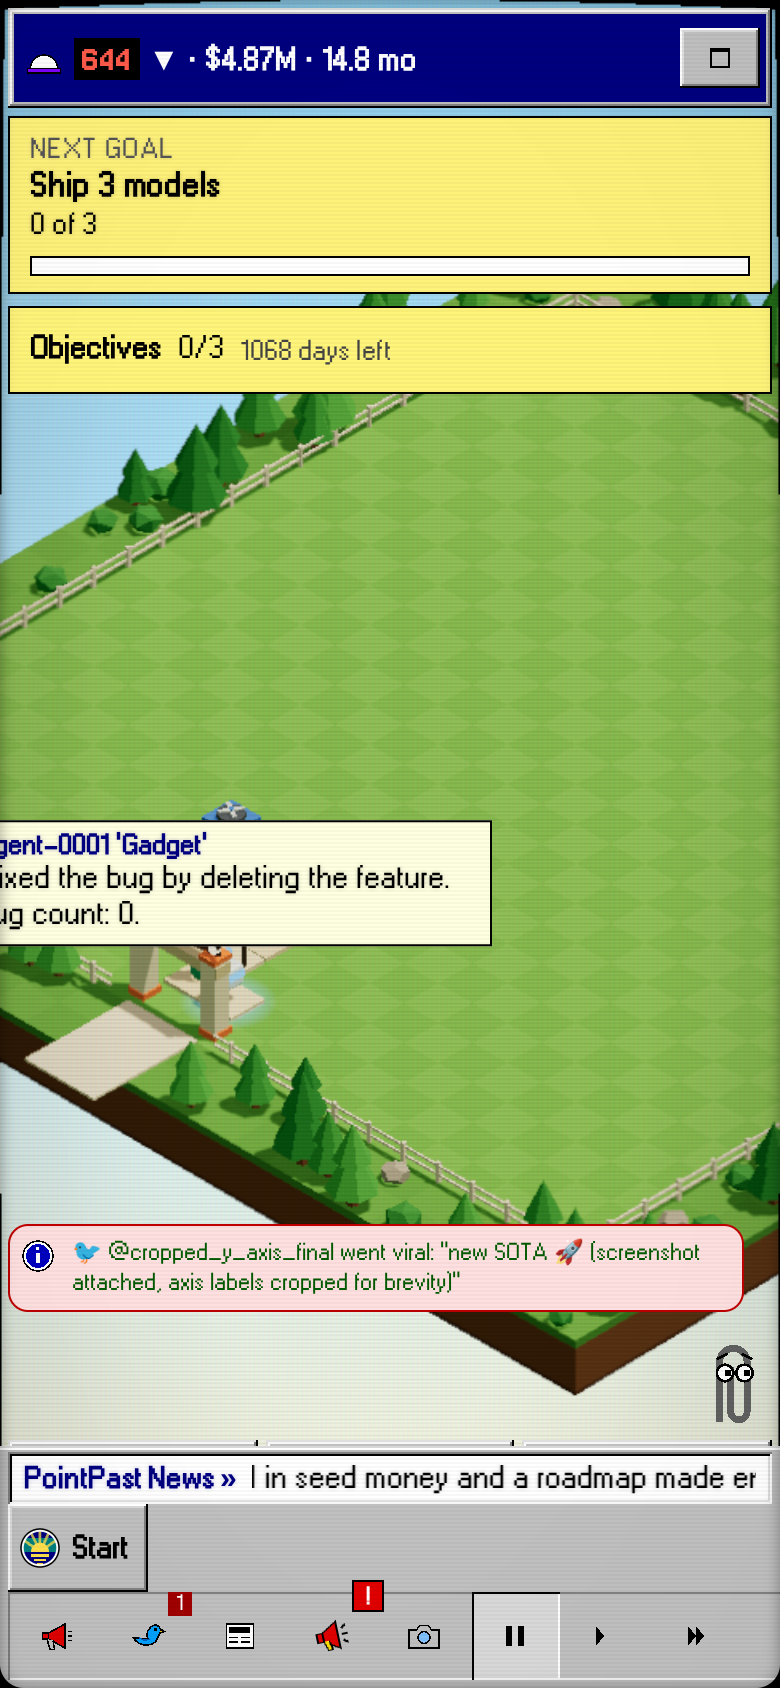
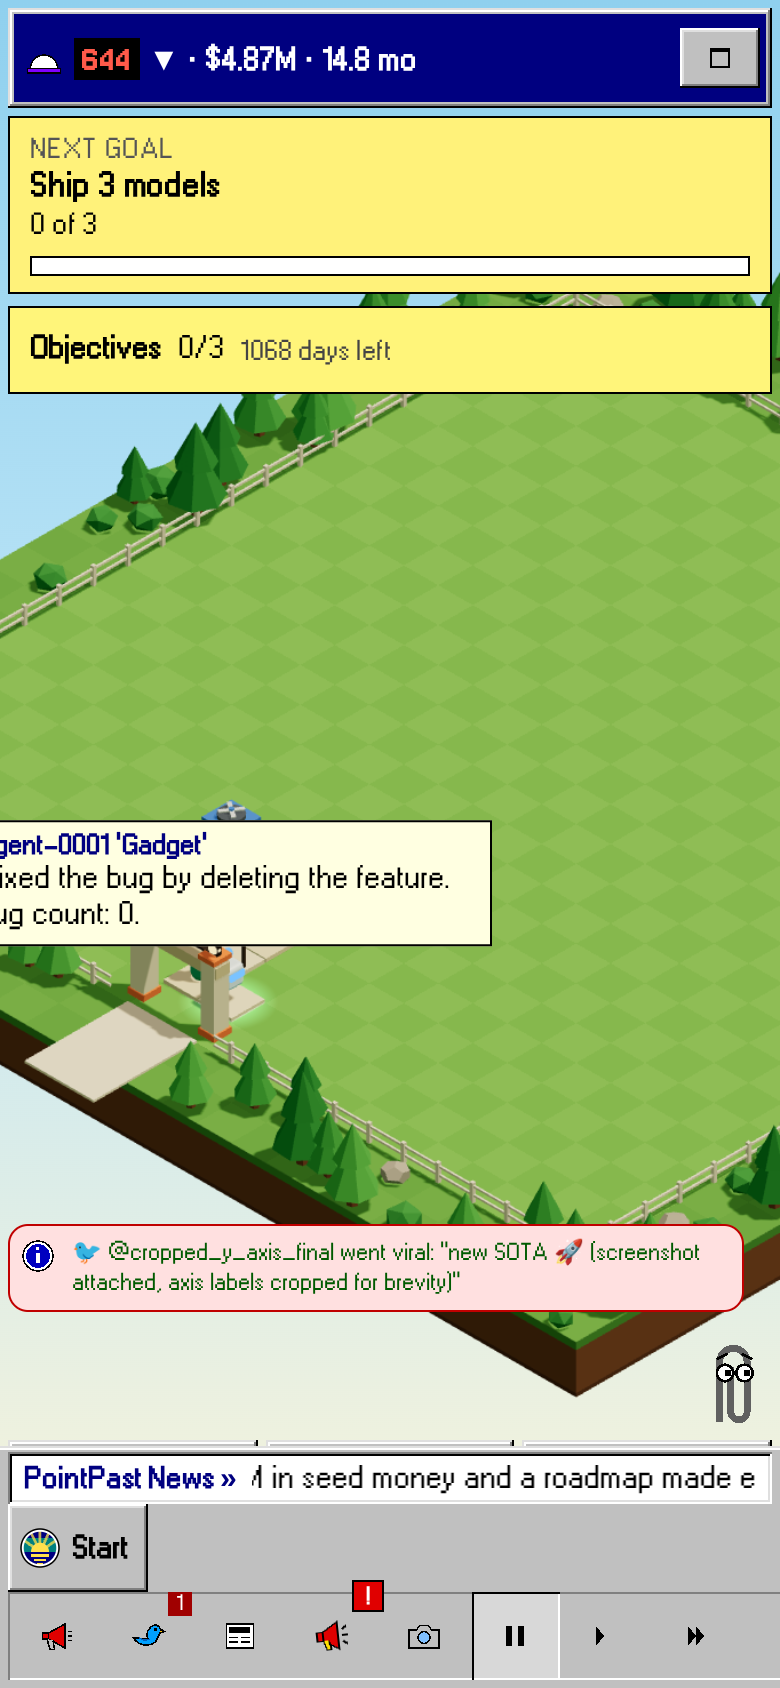
FLT-70: the in-game CRT is off for every skin; the shader stays on the box PC
Jem's call: land FLT-73's shader code with the in-game tube hidden and off,
keeping it only on the box's beige PC. GAME_CRT = false in
src/render/crt/state.ts gates it: the look is always off, ?crt=/?crttier= are
ignored, no pick is read or saved, and the HUD passes no vm.skins.crt, so
Display Properties ▸ Settings shows nothing. Frontier 95's "crt": "subtle"
stays in skin.json, inert. The Kiosk runs CRTPipeline itself and is untouched.
The FLT-88 spike flips the one constant. Drops the 11 FLT-73 shots scenes;
off.test.ts pins the switch, the box's shader and the scenes. Taskbar shots
recaptured against main @ cb75632.

diff --git a/src/ui/juice/crt.ts b/src/ui/juice/crt.ts
@@ -1,9 +1,10 @@
 // The CRT setting (FLT-73): the player's pick (Display Properties → Settings), the skin's default, `?crt=` for a
 // visit, and what the canvas can afford. Everything lands in `crtAtom`, which the scene (CrtFX) and the CSS tube read.
+// While GAME_CRT is off (FLT-70) none of them count: the look is always off, `?crt=` is ignored and nothing is saved.
 import { registry } from "../../app/game";
 import { isCrtMode, type CrtMode, type CrtTier, CRT_TIERS } from "../../render/crt/looks";
 import { CrtGovernor } from "../../render/crt/governor";
-import { crtAtom, crtGovernor } from "../../render/crt/state";
+import { GAME_CRT, crtAtom, crtGovernor } from "../../render/crt/state";
 import { photoAtom } from "../../render/fx/photoState";
 import { loadedSkinAtom } from "../hud/state";
 
@@ -20,8 +21,8 @@ function recall(): CrtMode | null {
 
 const params = typeof window === "undefined" ? new URLSearchParams() : new URLSearchParams(window.location.search);
 /** `?crt=off|subtle|full` pins the look for this visit (never saved), and `?crttier=multi|lite|flat` the canvas. Both switch the governor off. */
-const pinnedMode = isCrtMode(params.get("crt")) ? (params.get("crt") as CrtMode) : null;
-const pinnedTier = (CRT_TIERS as readonly string[]).includes(params.get("crttier") ?? "") ? (params.get("crttier") as CrtTier) : null;
+const pinnedMode = GAME_CRT && isCrtMode(params.get("crt")) ? (params.get("crt") as CrtMode) : null;
+const pinnedTier = GAME_CRT && (CRT_TIERS as readonly string[]).includes(params.get("crttier") ?? "") ? (params.get("crttier") as CrtTier) : null;
 
 /** A phone starts on the lite shader: a small touch screen, where the multi-pass pipeline costs the most per useful pixel. */
 function startTier(): CrtTier {
@@ -31,12 +32,12 @@ function startTier(): CrtTier {
   return touch && Math.min(window.innerWidth, window.innerHeight) < 700 ? "lite" : "multi";
 }
 
-let chosen: CrtMode | null = recall();
+let chosen: CrtMode | null = GAME_CRT ? recall() : null;
 const pinned = pinnedMode !== null || pinnedTier !== null;
 
 function recompute(patch: { tier?: CrtTier; reduced?: boolean } = {}) {
   const skinDefault = registry.get(loadedSkinAtom).crt ?? "off";
-  const mode: CrtMode = registry.get(photoAtom) ? "off" : (pinnedMode ?? chosen ?? skinDefault);
+  const mode: CrtMode = !GAME_CRT || registry.get(photoAtom) ? "off" : (pinnedMode ?? chosen ?? skinDefault);
   const prev = registry.get(crtAtom);
   const next = { ...prev, mode, choice: chosen, pinned, ...patch };
   // The first time the tube comes on, a governor starts watching the frame rate (the canvas feeds it; see CrtLayer).
@@ -46,6 +47,7 @@ function recompute(patch: { tier?: CrtTier; reduced?: boolean } = {}) {
 
 /** The player picked a look: remember it, and give the canvas a fresh chance at its best tier. */
 export function setCrtMode(mode: CrtMode) {
+  if (!GAME_CRT) return;
   chosen = mode;
   try {
     localStorage.setItem(KEY, mode);

diff --git a/src/render/crt/off.test.ts b/src/render/crt/off.test.ts
@@ -1,0 +1,37 @@
+// FLT-70: Jem kept the CRT shader for the box's beige PC and turned the tube over the game off for every skin. This
+// pins the switch off, keeps the box on the shader, and keeps screenshots from asking for a tube the game no longer has.
+// The FLT-88 spike flips GAME_CRT on its own branch and updates this test with it.
+import { describe, expect, it } from "vitest";
+import { GAME_CRT } from "./state";
+
+const src = import.meta.glob<string>(["/src/intro/stage/Kiosk.tsx", "/src/ui/juice/crt.ts", "/src/ui/hud/useHudVM.ts", "/scripts/shots.scenes.json"], {
+  query: "?raw",
+  import: "default",
+  eager: true,
+});
+
+describe("the in-game picture tube is off (FLT-70)", () => {
+  it("GAME_CRT is off", () => {
+    expect(GAME_CRT).toBe(false);
+  });
+
+  it("the switch gates the look, ?crt=, the saved pick and the Display Properties setting", () => {
+    const crt = src["/src/ui/juice/crt.ts"]!;
+    expect(crt).toMatch(/const mode: CrtMode = !GAME_CRT \|\|/);
+    expect(crt).toMatch(/const pinnedMode = GAME_CRT &&/);
+    expect(crt).toMatch(/GAME_CRT \? recall\(\) : null/);
+    expect(crt).toMatch(/setCrtMode\(mode: CrtMode\) {\n\s*if \(!GAME_CRT\) return;/);
+    expect(src["/src/ui/hud/useHudVM.ts"]).toMatch(/\.\.\.\(GAME_CRT \? { crt:/);
+  });
+
+  it("the box's beige PC keeps the shader", () => {
+    expect(src["/src/intro/stage/Kiosk.tsx"]).toMatch(/new CRTPipeline\(/);
+    expect(src["/src/intro/stage/Kiosk.tsx"]).not.toMatch(/GAME_CRT|crtAtom/);
+  });
+
+  it("no screenshot scene asks for a tube", () => {
+    const { scenes } = JSON.parse(src["/scripts/shots.scenes.json"]!) as { scenes: Record<string, { query?: Record<string, unknown> }> };
+    const tubed = Object.entries(scenes).filter(([id, s]) => id.startsWith("crt-") || (s.query && ("crt" in s.query || "crttier" in s.query)));
+    expect(tubed.map(([id]) => id)).toEqual([]);
+  });
+});

diff --git a/src/ui/hud/useHudVM.ts b/src/ui/hud/useHudVM.ts
@@ -7,7 +7,7 @@ import { atoms, debugParams, probeHud, registry, saveDesk } from "../../app/game
 import type { Snapshot } from "../../app/hud";
 import { audioReadyAtom, mixerAtom, mixerOpenAtom } from "../../audio/state";
 import { roomAtom } from "../../newsroom/state";
-import { crtAtom } from "../../render/crt/state";
+import { GAME_CRT, crtAtom } from "../../render/crt/state";
 import { photoAtom } from "../../render/fx/photoState";
 import { beatAtom } from "../../render/fx/beatState";
 import { skinList } from "../../skins/registry";
@@ -270,7 +270,8 @@ export function useHudVM({ snap, speed, tool, toasts, news, follow, highlight, s
           list,
           rejected: skinUi.refused,
           offer: skinUi.offer,
-          crt: { mode: crt.mode, choice: crt.choice, tier: crt.tier, reduced: crt.reduced },
+          // No `crt` while the in-game tube is off (FLT-70): the skins show no picture-tube setting.
+          ...(GAME_CRT ? { crt: { mode: crt.mode, choice: crt.choice, tier: crt.tier, reduced: crt.reduced } } : {}),
         },
         mods,
         drama,

diff --git a/src/render/crt/state.ts b/src/render/crt/state.ts
@@ -4,6 +4,14 @@ import { Atom } from "effect/unstable/reactivity";
 import type { CrtGovernor } from "./governor";
 import { unwarp, type CrtMode, type CrtTier } from "./looks";
 
+/**
+ * The in-game picture tube's one switch (FLT-70): off. Jem kept the shader for the box's beige PC (the intro's Kiosk
+ * runs CRTPipeline itself and never reads this) and turned the tube over the game off for every skin: no Display
+ * Properties setting, no `?crt=`, no skin default (Frontier 95's `"crt": "subtle"` lies dormant). Everything below
+ * stays wired for the FLT-88 spike, which turns it back on here.
+ */
+export const GAME_CRT = false as boolean;
+
 export interface CrtState {
   /** The look on screen right now: the player's pick, else the skin's default; off while photo mode is up. */
   mode: CrtMode;

diff --git a/docs/SKINS.md b/docs/SKINS.md
@@ -96,7 +96,7 @@ Only the **active** skin's CSS, slots and fonts are loaded (Vite splits them int
 | `version` | `"1.2.3"` | Semver. |
 | `preview` | `"assets/preview.<ext>"` | Picker thumbnail. |
 | `unlisted` | `true` (optional) | Keeps the skin out of the player's picker until it passes a taste review. It still loads with `?skin=<id>`. Unhiding is deleting the line. |
-| `crt` | `"off"`, `"subtle"` or `"full"` (optional) | FLT-73: the CRT tube the skin is seen through until the player picks one in Display Properties → Settings. Frontier 95 says `"subtle"`; absent means off. A mod skin inherits its parent's. |
+| `crt` | `"off"`, `"subtle"` or `"full"` (optional) | FLT-73: the CRT tube the skin is seen through until the player picks one in Display Properties → Settings. Frontier 95 says `"subtle"`; absent means off. A mod skin inherits its parent's. **Inert for now:** the in-game tube is off for every skin (FLT-70, `GAME_CRT` in `src/render/crt/state.ts`). |
 | `tokens` | `{ "color.panel": "#fff", ... }` | See [Tokens](#tokens). All **required** tokens must be present; the rest fall back to the base. Names must be known tokens, or your own under the `x.` prefix (`"x.sparkle": "#f0f"` → `--flt-x-sparkle`). |
 | `strings` | `{ "help.title": "Field Guide" }` | Relabels UI copy. Keys must exist in the [strings table](#strings). Titles and body copy only: see [Rules](#rules) for control labels. |
 | `fonts` | `[{ family, src, weight?, style?, license, licenseFile }]` | Bundled files only. `src` and `licenseFile` are paths inside the skin folder. Licence must be OFL, Apache, MIT or CC0. |
@@ -604,7 +604,7 @@ interface HudVM {
 
 Numbers come as numbers (`cash.value`) **and** formatted text (`cash.text`), so you can roll an odometer and still have a caption. Colours the game owns (the walker's `portrait.body`, an Arena lab's `color`) come as CSS colour strings.
 
-`HudActions` is everything a skin can ask for: `place(kind)`, `setSpeed(n)`, `togglePause()`, `choose(eventId, i)`, `continueEra()`, `select(id)`, `follow(id, on?)`, `closeInspector()`, `highlight(key)`, the payroll (`closeStaff`, `hire(job)`, `fire(id)`, `paintZone(id | null)`, `clearZone(id)`), `dismissToast(id)`, the coach and the cards (`coachSkip()`, `coachReplay()`, `dismissUnlock()`, `buildPanel(open)`, `openHelp()`, `closeHelp()`), the spend check (`confirmSpend()`, `cancelSpend()`), `holdTime(id, open)` (use the kit's `useAutoPause`), `toggleArena()`, `keepPlaying()`, `newLab()`, the news-room ones (`openNews`, `viewNews`, `closeNews`, `skipNews`, `revealChat`), sound (`openMixer`, `closeMixer`, `setMuted`, `setVolume`, `playCue`), photo mode (`setPhoto`, `setPhotoTime`, `takePhoto`) skins (`openSkinPicker`, `previewSkin`, `applySkin`, `cancelSkinPicker`, `setReducedMotion`, `setCrt(mode)` for the picture tube, whose state is `vm.skins.crt`) mods (`openMods`, `closeMods`, `removeMod`) Today's Drama (`openDrama`, `closeDrama`, `playDrama`) and saves (`openSaves`, `closeSaves`, `saveTo`, `loadFrom`, `deleteSave`, `exportSave`, `importSave`, `continueSave`, `dismissWelcome`, `fetchModsAndLoad`, `loadWithoutMods`, `cancelModPrompt`). Each is safe to call at any time; the game ignores what does not apply.
+`HudActions` is everything a skin can ask for: `place(kind)`, `setSpeed(n)`, `togglePause()`, `choose(eventId, i)`, `continueEra()`, `select(id)`, `follow(id, on?)`, `closeInspector()`, `highlight(key)`, the payroll (`closeStaff`, `hire(job)`, `fire(id)`, `paintZone(id | null)`, `clearZone(id)`), `dismissToast(id)`, the coach and the cards (`coachSkip()`, `coachReplay()`, `dismissUnlock()`, `buildPanel(open)`, `openHelp()`, `closeHelp()`), the spend check (`confirmSpend()`, `cancelSpend()`), `holdTime(id, open)` (use the kit's `useAutoPause`), `toggleArena()`, `keepPlaying()`, `newLab()`, the news-room ones (`openNews`, `viewNews`, `closeNews`, `skipNews`, `revealChat`), sound (`openMixer`, `closeMixer`, `setMuted`, `setVolume`, `playCue`), photo mode (`setPhoto`, `setPhotoTime`, `takePhoto`) skins (`openSkinPicker`, `previewSkin`, `applySkin`, `cancelSkinPicker`, `setReducedMotion`, `setCrt(mode)` for the picture tube, whose state is `vm.skins.crt`; both do nothing and `crt` is absent while the in-game tube is off) mods (`openMods`, `closeMods`, `removeMod`) Today's Drama (`openDrama`, `closeDrama`, `playDrama`) and saves (`openSaves`, `closeSaves`, `saveTo`, `loadFrom`, `deleteSave`, `exportSave`, `importSave`, `continueSave`, `dismissWelcome`, `fetchModsAndLoad`, `loadWithoutMods`, `cancelModPrompt`). Each is safe to call at any time; the game ignores what does not apply.
 
 Changing the contract: keep changes **additive** (new fields, new actions) and add a fixture to `src/ui/hud/fixtures.ts` + a test in `vm.test.ts`. A breaking change means bumping `SKIN_API_VERSION` and every `skin.json`.
 

diff --git a/docs/img/flt-70-art/taskbar/report.md b/docs/img/flt-70-art/taskbar/report.md
@@ -1,9 +1,9 @@
 
-| Scene | Before (`main` @ 5eff77d) | After (`flt-70-art` @ cf24bf1+) |
+| Scene | Before (`main` @ cb75632) | After (`flt-70-art` @ 06ed1ce+) |
 |---|---|---|
-| **f95-start**<br>6.5% px differ | ![f95-start](https://github.com/Manzanita-Research/frontier-lab-tycoon/blob/flt-70-art/docs/img/flt-70-art/taskbar/before/f95-start.png?raw=true) | ![f95-start](https://github.com/Manzanita-Research/frontier-lab-tycoon/blob/flt-70-art/docs/img/flt-70-art/taskbar/after/f95-start.png?raw=true) |
-| **f95-start-phone**<br>4.5% px differ | ![f95-start-phone](https://github.com/Manzanita-Research/frontier-lab-tycoon/blob/flt-70-art/docs/img/flt-70-art/taskbar/before/f95-start-phone.png?raw=true) | ![f95-start-phone](https://github.com/Manzanita-Research/frontier-lab-tycoon/blob/flt-70-art/docs/img/flt-70-art/taskbar/after/f95-start-phone.png?raw=true) |
-| **overview**<br>9.9% px differ | ![overview](https://github.com/Manzanita-Research/frontier-lab-tycoon/blob/flt-70-art/docs/img/flt-70-art/taskbar/before/overview.png?raw=true) | ![overview](https://github.com/Manzanita-Research/frontier-lab-tycoon/blob/flt-70-art/docs/img/flt-70-art/taskbar/after/overview.png?raw=true) |
-| **phone**<br>6.1% px differ | ![phone](https://github.com/Manzanita-Research/frontier-lab-tycoon/blob/flt-70-art/docs/img/flt-70-art/taskbar/before/phone.png?raw=true) | ![phone](https://github.com/Manzanita-Research/frontier-lab-tycoon/blob/flt-70-art/docs/img/flt-70-art/taskbar/after/phone.png?raw=true) |
+| **f95-start**<br>0.8% px differ | ![f95-start](https://github.com/Manzanita-Research/frontier-lab-tycoon/blob/flt-70-art/docs/img/flt-70-art/taskbar/before/f95-start.png?raw=true) | ![f95-start](https://github.com/Manzanita-Research/frontier-lab-tycoon/blob/flt-70-art/docs/img/flt-70-art/taskbar/after/f95-start.png?raw=true) |
+| **f95-start-phone**<br>≈ unchanged (0.19% px) | ![f95-start-phone](https://github.com/Manzanita-Research/frontier-lab-tycoon/blob/flt-70-art/docs/img/flt-70-art/taskbar/before/f95-start-phone.png?raw=true) | ![f95-start-phone](https://github.com/Manzanita-Research/frontier-lab-tycoon/blob/flt-70-art/docs/img/flt-70-art/taskbar/after/f95-start-phone.png?raw=true) |
+| **overview**<br>≈ unchanged (0.19% px) | ![overview](https://github.com/Manzanita-Research/frontier-lab-tycoon/blob/flt-70-art/docs/img/flt-70-art/taskbar/before/overview.png?raw=true) | ![overview](https://github.com/Manzanita-Research/frontier-lab-tycoon/blob/flt-70-art/docs/img/flt-70-art/taskbar/after/overview.png?raw=true) |
+| **phone**<br>≈ unchanged (0.41% px) | ![phone](https://github.com/Manzanita-Research/frontier-lab-tycoon/blob/flt-70-art/docs/img/flt-70-art/taskbar/before/phone.png?raw=true) | ![phone](https://github.com/Manzanita-Research/frontier-lab-tycoon/blob/flt-70-art/docs/img/flt-70-art/taskbar/after/phone.png?raw=true) |
 
-_pnpm shots: 4 scene(s) in 124.8s (8/8 captures ok)._
+_pnpm shots: 4 scene(s) in 114.5s (8/8 captures ok)._

diff --git a/AGENTS.md b/AGENTS.md
@@ -42,7 +42,7 @@ It builds `main` in a temporary worktree (cached by commit in `shots/.cache/`) a
 - `src/render/`: react-three-fiber scene. Reads sim state, never mutates it except through store actions.
 - `src/ui/hud/`: the 2D UI's host. `hudViewModel(snapshot)` (`vm.ts`) turns the snapshot into a plain-JSON `HudVM`; `types.ts` is the whole modding contract (`HudVM` + `HudActions`). `src/skins/`: the skin system (tokens, slots, registry, schema) and the six skins (Frontier 95 is the default; the other five are `unlisted` from the picker, which shows Frontier 95 and Classic). **The 2D UI is skinned: read `docs/SKINS.md` before touching it**, put UI in a slot (base or a skin's), and never import `src/sim/**`, the store or three from `src/skins/**` (a test fails if you do). `src/ui/juice/`: sky and photo-mode plumbing; `src/ui/WorldOverlay.tsx`: labels pinned to the scene.
 - `src/render/fx/`: the juice layer (camera director, particles, day/night, photo mode). It only reads the World; see the last section of `docs/ARCHITECTURE.md`.
-- `src/render/crt/` + `src/ui/juice/{crt.ts,Tube.tsx,crt.css}`: the picture tube (FLT-73), a ported MIT CRT shader on the canvas plus a CSS tube over the DOM; Display Properties ▸ Settings, `?crt=off|subtle|full`. Credits in `docs/CREDITS.md`; reuse on a texture per `src/render/crt/README.md`.
+- `src/render/crt/` + `src/ui/juice/{crt.ts,Tube.tsx,crt.css}`: the picture tube (FLT-73), a ported MIT CRT shader on the canvas plus a CSS tube over the DOM. **Off in the game** (FLT-70: `GAME_CRT = false` in `src/render/crt/state.ts`, so no setting and no `?crt=`); the shader is used only on the box's beige PC (`src/intro/stage/Kiosk.tsx`). Credits in `docs/CREDITS.md`; reuse on a texture per `src/render/crt/README.md`.
 - `src/sim/disasters/` and `src/sim/verbs.ts`: disasters as JSON statecharts (`mods/base-disasters/mod.json`) plus the Vocabulary of generic guards and verbs they call. Adding a disaster is a JSON entry; read `docs/DISASTERS.md`.
 - `mods/base-leapfrog/`: the Release Leapfrog content pack (FLT-27, the FLT-15 section shape; loaded by `src/content/leapfrog.ts`), its machines in `src/sim/race/leapfrog/`; asleep until its ladder rung is earned (`PACKS` in `src/sim/progression.ts` wakes Leapfrog, Papers, Collusion, the Hearing, the yacht, Defection, Poaching, the auditors, Regulatory Capture, the Promise Tracker, the Factions and the Bird App; `?leapfrog=off`, `?papers=off`, `?collusion=off`, `?hearing=off`, `?factions=off`, `?birdapp=off`, ... skip one).
 - `mods/base-birdapp/`: the Bird App (FLT-69), researchers who post: posters, Aura, the Comms desk and three levers per poster, in `src/sim/birdapp/`, with the BirdApp slot (Frontier 95's Bird Reader 1.0); on at Level 3. See its README.

diff --git a/docs/ARCHITECTURE.md b/docs/ARCHITECTURE.md
@@ -356,6 +356,8 @@ Measured on the 1-vCPU Modal box: a full pool of 2,000 particles updates in 0.08
 
 ### The picture tube (FLT-73)
 
+**Off in the game for now (FLT-70).** Jem kept the shader only for the box's beige PC (`src/intro/stage/Kiosk.tsx` runs `CRTPipeline` itself). `GAME_CRT` in `src/render/crt/state.ts` is `false`, so the look is always off for every skin, `?crt=`/`?crttier=` are ignored, no pick is read or saved, and the HUD passes no `vm.skins.crt` (Display Properties ▸ Settings shows nothing). Frontier 95's `"crt": "subtle"` stays in its `skin.json`, inert. Everything below is still wired; the FLT-88 spike turns it back on by flipping that one constant (and `src/render/crt/off.test.ts` with it).
+
 A CRT over the whole game, set in Display Properties ▸ Settings (off / subtle / full; Frontier 95 defaults to subtle through its `skin.json` `"crt"`). It has two layers that agree on pitch, bow, vignette and corners (`src/render/crt/looks.ts`):
 
 ```mermaid
